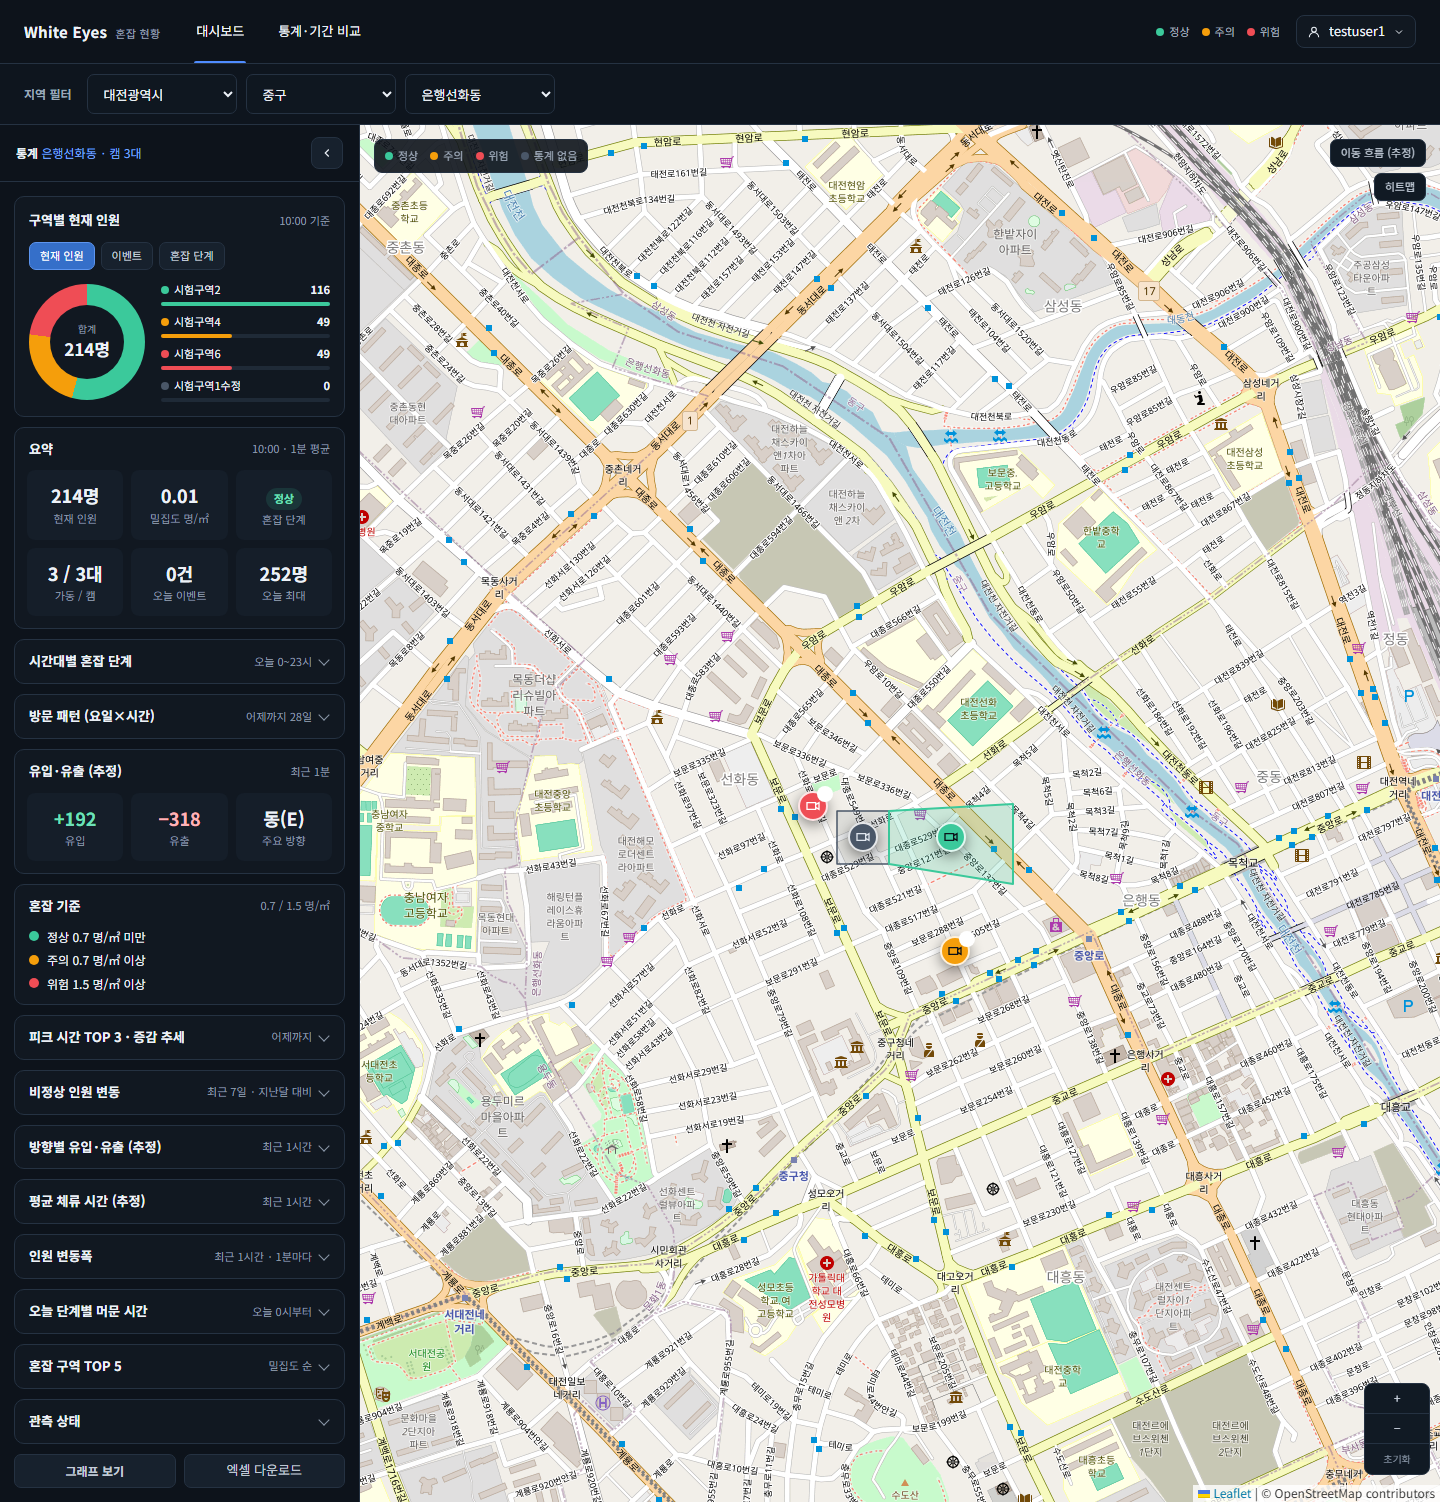
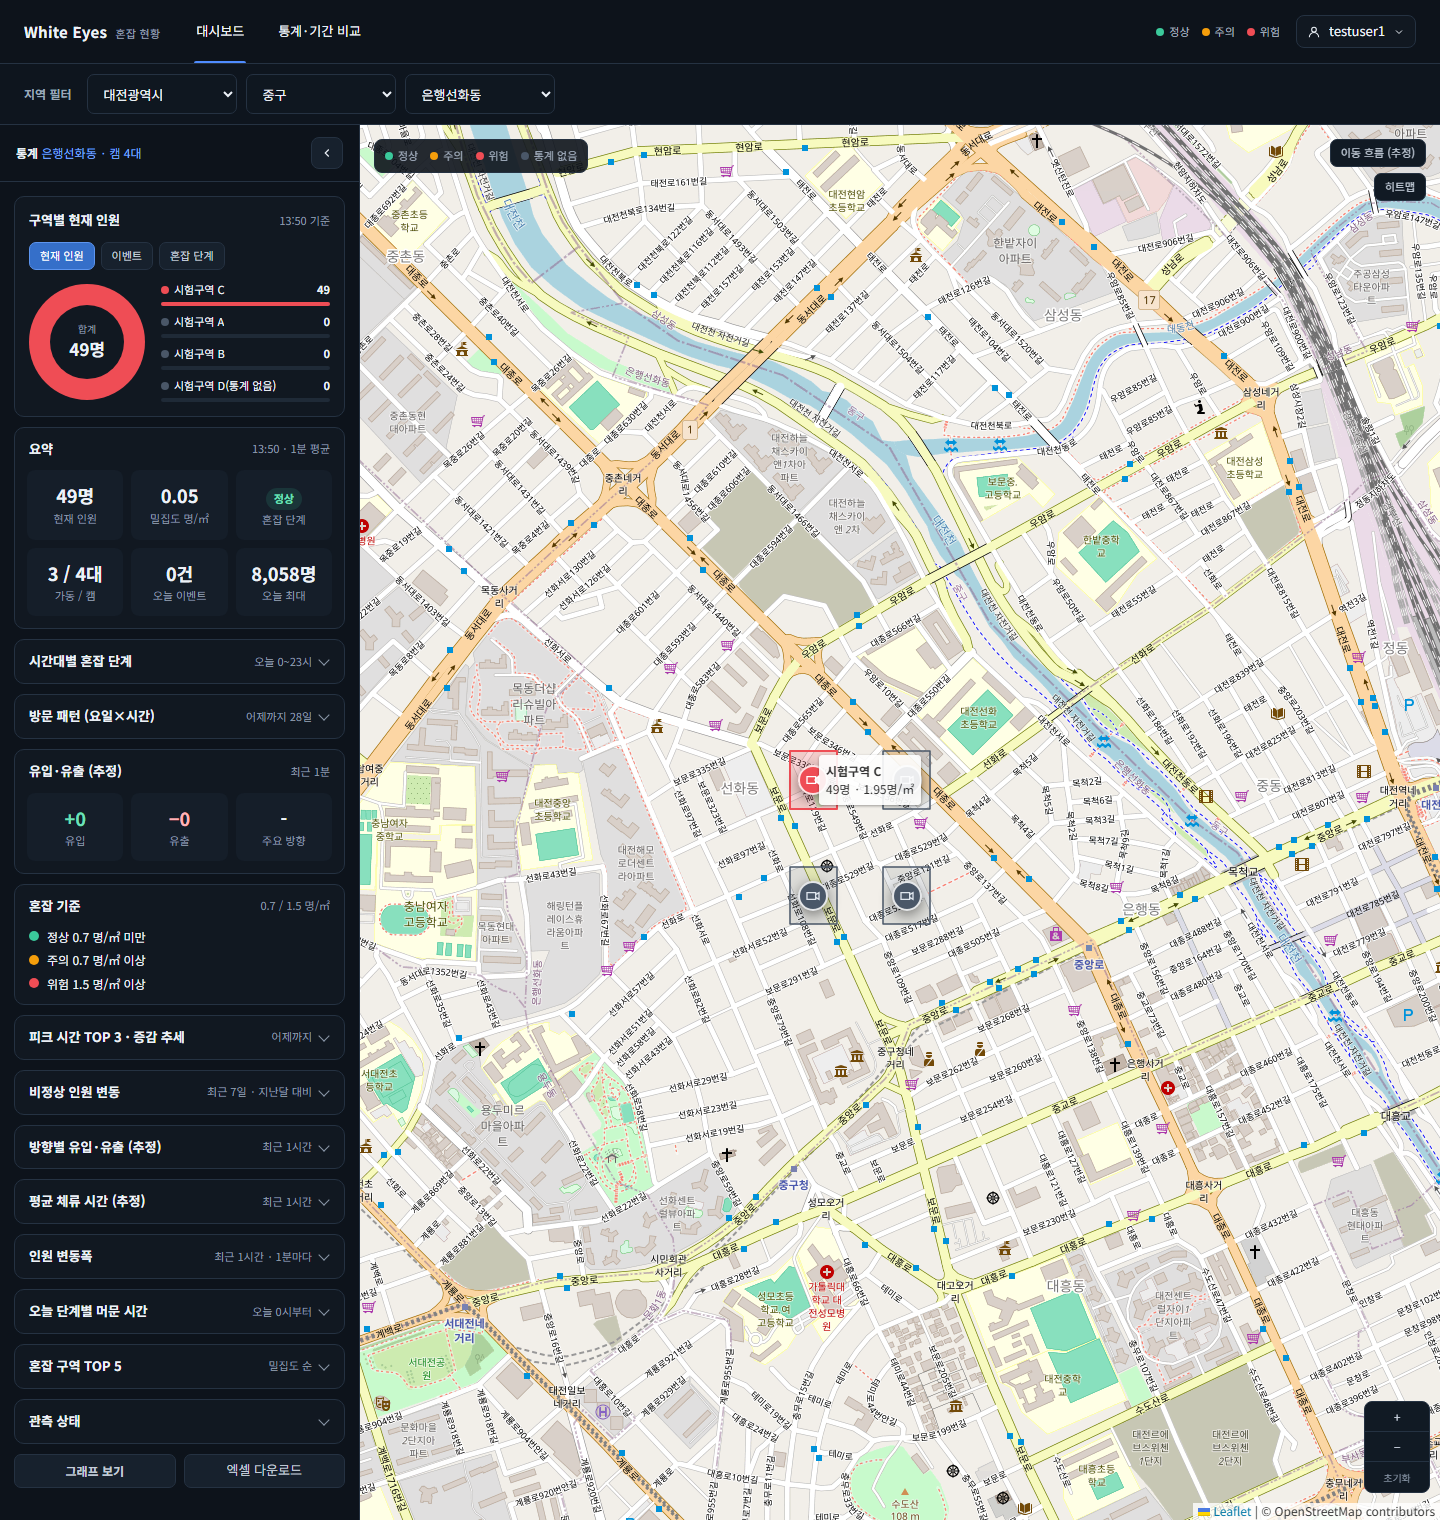
docs: 구역 핀 툴팁 캡처 교체, 구·동 항목에 #271 표기 - #97

diff --git a/test-reports/2026-10-27-user-zone-pin-popup/README.md b/test-reports/2026-10-27-user-zone-pin-popup/README.md
@@ -4,7 +4,7 @@ spring #259(사용자 앱 지도의 구역 핀을 눌러도 구역 정보 팝업
 
 - 환경: WSL Docker(MySQL 8.4, 사용자 앱·관리자 앱·분석 서버 컨테이너). 구역·1분 통계는 분석 서버가 더미 영상에서 만든 로컬 시험 데이터다. 화면의 `testuser1`은 시험용 가짜 계정이다. 비밀번호·토큰은 캡처에 나오지 않는다.
 - 브랜치: spring `feature/259-user-zone-pin-popup`(dev `013d774` 기준). 수정 전 같은 절차에서 `.leaflet-popup`이 0개였다.
-- 캡처는 페이지 전체(가로 1440)다.
+- 캡처는 가로 1440 화면이다. 01번은 툴팁이 닫히지 않도록 세로 1520으로 열어 한 화면으로 찍었다(핀에 마우스를 올린 채 찍음).
 
 | 화면·상태 | 시안 | 구현 |
 |---|---|---|
@@ -18,7 +18,7 @@ spring #259(사용자 앱 지도의 구역 핀을 눌러도 구역 정보 팝업
 - 팝업을 연 채로 새 1분 통계 읽기(`/api/v1/map/status?unit=ZONE`)가 1번 일어났고, 그 뒤에도 같은 팝업이 열려 있었다.
 
 ## 시안과 다른 점
-- 확인 필요: 명세는 툴팁에 구·동 이름도 넣는다고 적었지만 `GET /api/v1/map/status`의 구역 항목에 구·동이 없어 이름과 인원·밀집도만 나온다(API 변경이 필요해 #259 범위 밖으로 뒀다).
+- 확인 필요: 명세는 툴팁에 구·동 이름도 넣는다고 적었지만 `GET /api/v1/map/status`의 구역 항목에 구·동이 없어 이름과 인원·밀집도만 나온다(API 변경이 필요해 #259 범위 밖으로 뒀다). `GET /map/status` 구역 항목에 `regionPath`를 더하는 명세 PR(#98)과 구현 이슈(white-eyes1/white-eyes-spring#271)를 올렸다.
 - 의도: 시안에는 구역 정보 팝업이 없다. 구현은 명세 문구대로 인원·밀집도·단계를 보여준다.
 - 의도: 지도 타일·구역 모양·캠 수는 시험 데이터와 실제 OSM 타일이라 시안과 다르다.
 
